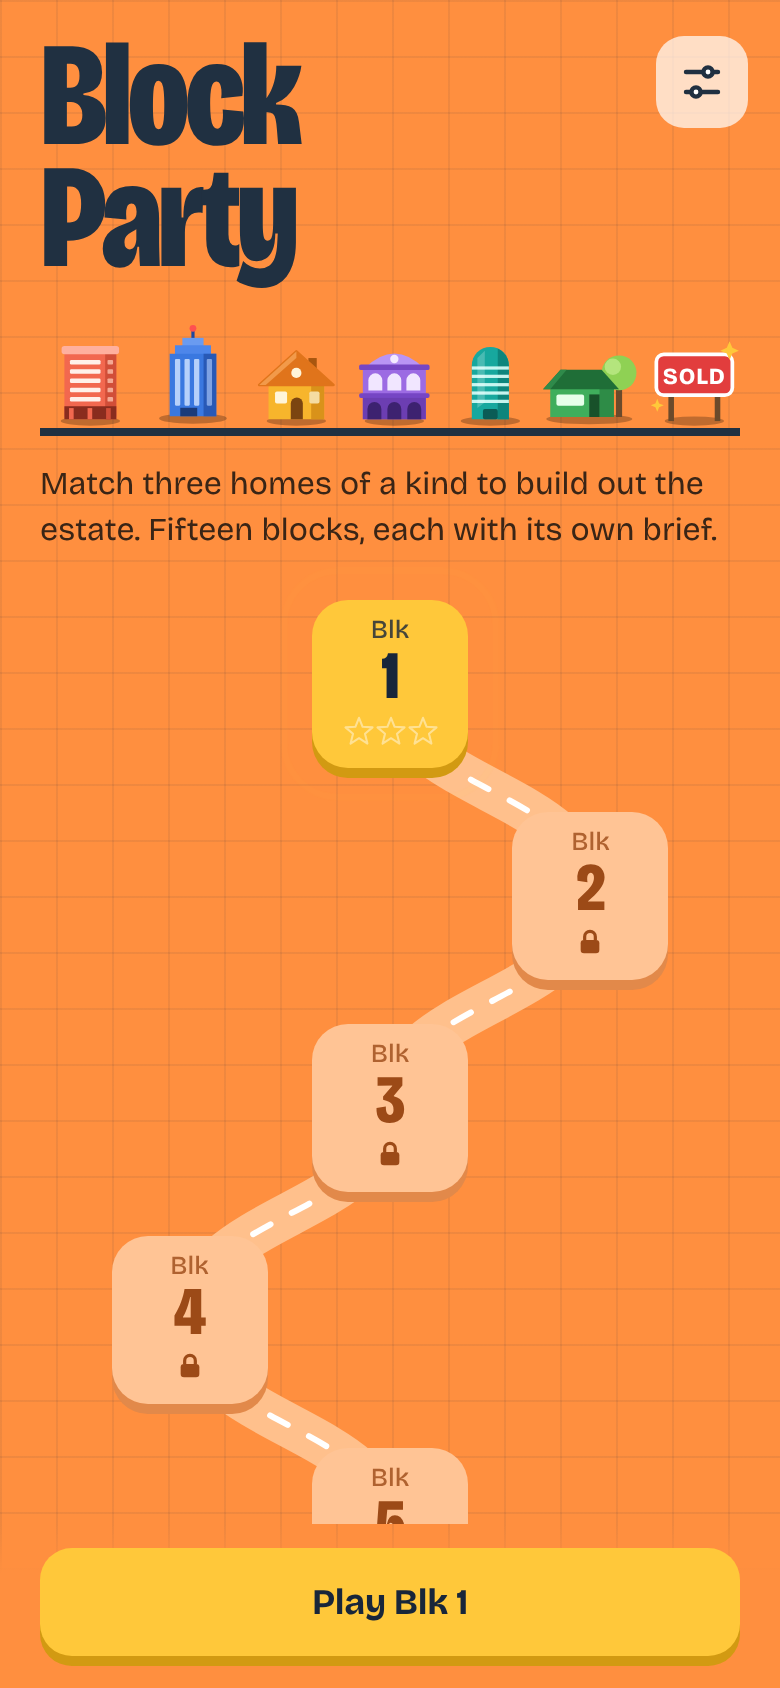
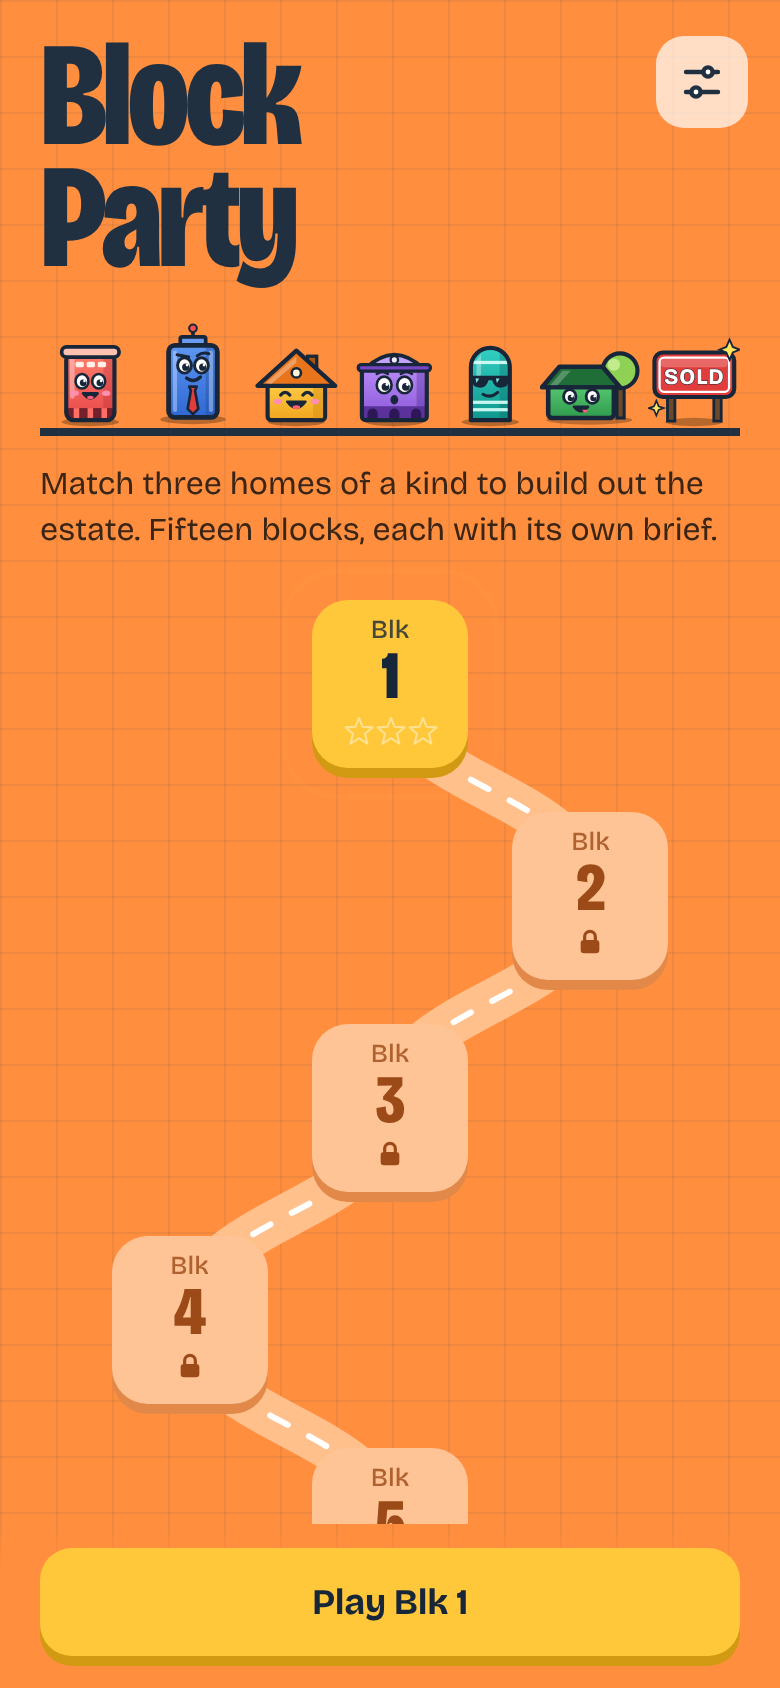
Redesign game pieces as cartoon characters
- Six home types redrawn with faces, thick sticker outlines and gloss,
  each with its own expression: cheerful HDB flat, cool condo in
  sunglasses, beaming terrace house, surprised shophouse, cheeky
  bungalow, smug office tower in a tie
- SOLD sign restyled to match
- Bulldozer stripe moved to the edge so faces stay visible
- Refresh install screenshots; bump service worker cache to v4

Claude-Session: https://claude.ai/code/session_01JDJfEoudhkGWPUHfq3bvTk

diff --git a/index.html b/index.html
@@ -299,87 +299,121 @@ button{font:inherit;color:inherit;cursor:pointer}
 /* =========================================================
    Sprites
    ========================================================= */
-const OVH = `<rect x="11" y="42" width="78" height="16" rx="3" fill="url(#hazard)" stroke="#18263A" stroke-width="2.5"/>
-  <path d="M1 50 L13 37 L13 63 Z" fill="#FFC83A" stroke="#18263A" stroke-width="2.5" stroke-linejoin="round"/>
-  <path d="M99 50 L87 37 L87 63 Z" fill="#FFC83A" stroke="#18263A" stroke-width="2.5" stroke-linejoin="round"/>`;
-const SHADOW = `<ellipse cx="50" cy="90" rx="32" ry="5" fill="#000" opacity=".25"/>`;
+const OVH = `<rect x="12" y="75" width="76" height="15" rx="3" fill="url(#hazard)" stroke="#18263A" stroke-width="2.8"/>
+  <path d="M1 82.5 L13 70 L13 95 Z" fill="#FFC83A" stroke="#18263A" stroke-width="2.8" stroke-linejoin="round"/>
+  <path d="M99 82.5 L87 70 L87 95 Z" fill="#FFC83A" stroke="#18263A" stroke-width="2.8" stroke-linejoin="round"/>`;
+const SHADOW = `<ellipse cx="50" cy="91" rx="31" ry="4.5" fill="#000" opacity=".28"/>`;
+const EYE = (x,y,r) => `<ellipse cx="${x}" cy="${y}" rx="${r}" ry="${(r*1.12).toFixed(1)}" fill="#fff" stroke="#18263A" stroke-width="2.8"/><circle cx="${x+r*.18}" cy="${y+r*.25}" r="${(r*.52).toFixed(1)}" fill="#18263A"/><circle cx="${x+r*.38}" cy="${y-r*.05}" r="${(r*.2).toFixed(1)}" fill="#fff"/>`;
+const GRAD = (id,a,b) => `<linearGradient id="${id}" x1="0" y1="0" x2="0" y2="1"><stop offset="0" stop-color="${a}"/><stop offset="1" stop-color="${b}"/></linearGradient>`;
 const STAR = `M50 6 L62 36 L95 38 L70 59 L78 92 L50 74 L22 92 L30 59 L5 38 L38 36 Z`;
 document.getElementById('sprite').innerHTML = `
 <svg xmlns="http://www.w3.org/2000/svg"><defs>
+${GRAD('g-hdb','#FF7E6C','#E8484A')}${GRAD('g-condo','#33CFC2','#0F978D')}${GRAD('g-house','#FFD04A','#F2A51E')}
+${GRAD('g-shop','#B78AF5','#8A57D8')}${GRAD('g-bung','#5ACB74','#2F9A4C')}${GRAD('g-office','#5E96F2','#2F68D2')}
+<clipPath id="cp-hdb"><rect x="24" y="16" width="52" height="73" rx="8"/></clipPath>
+<clipPath id="cp-condo"><path d="M29 89 V32 A21 21 0 0 1 71 32 V89 Z"/></clipPath>
+<clipPath id="cp-shop"><rect x="15" y="32" width="70" height="57" rx="4"/></clipPath>
+<clipPath id="cp-office"><rect x="27" y="21" width="46" height="68" rx="6"/></clipPath>
 <pattern id="hazard" width="12" height="12" patternUnits="userSpaceOnUse" patternTransform="rotate(45)"><rect width="12" height="12" fill="#FFC83A"/><rect width="6" height="12" fill="#18263A"/></pattern>
 <pattern id="barrier" width="16" height="16" patternUnits="userSpaceOnUse" patternTransform="rotate(-45)"><rect width="16" height="16" fill="#fff"/><rect width="8" height="16" fill="#FF6B1A"/></pattern>
 <pattern id="dirt" width="10" height="10" patternUnits="userSpaceOnUse" patternTransform="rotate(135)"><rect width="10" height="10" fill="#A47E55"/><rect width="5" height="10" fill="#97734C"/></pattern>
 
 <symbol id="sym-p0" viewBox="0 0 100 100">${SHADOW}
-  <rect x="22" y="14" width="56" height="74" rx="4" fill="#F2684F"/>
-  <path d="M66 14 H74 A4 4 0 0 1 78 18 V88 H66 Z" fill="#D14E38"/>
-  <rect x="19" y="9" width="62" height="9" rx="3" fill="#FFB09E"/>
-  <g fill="#FFF0EA"><rect x="28" y="24" width="33" height="5" rx="1.5"/><rect x="28" y="34" width="33" height="5" rx="1.5"/><rect x="28" y="44" width="33" height="5" rx="1.5"/><rect x="28" y="54" width="33" height="5" rx="1.5"/><rect x="28" y="64" width="33" height="5" rx="1.5"/></g>
-  <g fill="#F4A893"><rect x="68.5" y="24" width="6" height="5" rx="1"/><rect x="68.5" y="34" width="6" height="5" rx="1"/><rect x="68.5" y="44" width="6" height="5" rx="1"/><rect x="68.5" y="54" width="6" height="5" rx="1"/><rect x="68.5" y="64" width="6" height="5" rx="1"/></g>
-  <rect x="22" y="74" width="56" height="14" fill="#8A2C1E"/>
-  <g fill="#F2684F"><rect x="27" y="76" width="5" height="12"/><rect x="47" y="76" width="5" height="12"/></g><rect x="67" y="76" width="5" height="12" fill="#D14E38"/>
+  <rect x="24" y="16" width="52" height="73" rx="8" fill="url(#g-hdb)"/>
+  <g clip-path="url(#cp-hdb)">
+    <rect x="64" y="16" width="12" height="73" fill="#B92F3A" opacity=".35"/>
+    <rect x="28" y="22" width="5" height="44" rx="2.5" fill="#fff" opacity=".35"/>
+    <g fill="#FFF1E8"><rect x="34" y="26" width="9" height="6" rx="2"/><rect x="46" y="26" width="9" height="6" rx="2"/><rect x="58" y="26" width="9" height="6" rx="2"/></g>
+    <rect x="24" y="76" width="52" height="13" fill="#72202C"/>
+    <g fill="#FF6E66"><rect x="32" y="76" width="6" height="13"/><rect x="47" y="76" width="6" height="13"/><rect x="62" y="76" width="6" height="13"/></g>
+  </g>
+  <rect x="24" y="16" width="52" height="73" rx="8" fill="none" stroke="#18263A" stroke-width="4.5"/>
+  <rect x="19" y="10" width="62" height="11" rx="5.5" fill="#FFC2B0" stroke="#18263A" stroke-width="4"/>
+  ${EYE(41,47,7)}${EYE(59,47,7)}
+  <ellipse cx="33" cy="60" rx="4.5" ry="3" fill="#FF8FB0"/><ellipse cx="67" cy="60" rx="4.5" ry="3" fill="#FF8FB0"/>
+  <path d="M42 60 Q50 71 58 60 Z" fill="#18263A" stroke="#18263A" stroke-width="2.5" stroke-linejoin="round"/>
+  <ellipse cx="50" cy="64.5" rx="3.5" ry="1.8" fill="#FF5D73"/>
 </symbol>
 
 <symbol id="sym-p1" viewBox="0 0 100 100">${SHADOW}
-  <path d="M30 88 V30 A20 20 0 0 1 70 30 V88 Z" fill="#17A89E"/>
-  <path d="M58 88 V11.7 A20 20 0 0 1 70 30 V88 Z" fill="#0D857C"/>
-  <g fill="#DBFFFA" opacity=".9"><rect x="30" y="31" width="40" height="3.5"/><rect x="30" y="40" width="40" height="3.5"/><rect x="30" y="49" width="40" height="3.5"/><rect x="30" y="58" width="40" height="3.5"/><rect x="30" y="67" width="40" height="3.5"/></g>
-  <path d="M36 22 L44 14 L44 70 L36 76 Z" fill="#fff" opacity=".22"/>
-  <rect x="42" y="77" width="16" height="11" rx="2" fill="#0A5C56"/>
+  <path d="M29 89 V32 A21 21 0 0 1 71 32 V89 Z" fill="url(#g-condo)"/>
+  <g clip-path="url(#cp-condo)">
+    <rect x="60" y="8" width="11" height="81" fill="#0A6A63" opacity=".35"/>
+    <path d="M35 24 L40 18 L40 40 L35 44 Z" fill="#fff" opacity=".35"/>
+    <g fill="#DBFFFA" opacity=".9"><rect x="29" y="68" width="42" height="3.5"/><rect x="29" y="76" width="42" height="3.5"/></g>
+    <rect x="29" y="25" width="42" height="3.5" fill="#DBFFFA" opacity=".9"/>
+  </g>
+  <path d="M29 89 V32 A21 21 0 0 1 71 32 V89 Z" fill="none" stroke="#18263A" stroke-width="4.5" stroke-linejoin="round"/>
+  <path d="M30 41 H70 V45 Q70 54 61 54 Q54 54 52 46 H48 Q46 54 39 54 Q30 54 30 45 Z" fill="#18263A"/>
+  <path d="M34 44 L38 44 L35 49 Z M56 44 L60 44 L57 49 Z" fill="#7EE8DE"/>
+  <path d="M42 61 Q50 66 58 59" fill="none" stroke="#18263A" stroke-width="3.2" stroke-linecap="round"/>
 </symbol>
 
 <symbol id="sym-p2" viewBox="0 0 100 100">${SHADOW}
-  <rect x="63" y="22" width="9" height="18" fill="#A8560F"/>
-  <rect x="20" y="46" width="60" height="42" fill="#F7B52C"/>
-  <rect x="66" y="46" width="14" height="42" fill="#D9921A"/>
-  <path d="M10 51 L50 15 L90 51 Z" fill="#E0741B" stroke="#E0741B" stroke-width="3" stroke-linejoin="round"/>
-  <path d="M10 51 L50 15 L50 22 L17 51 Z" fill="#F29A4A"/>
-  <circle cx="50" cy="38" r="5.5" fill="#FFF5D9"/>
-  <rect x="27" y="58" width="13" height="13" rx="2" fill="#FFF5D9"/>
-  <rect x="64" y="58" width="11" height="13" rx="2" fill="#F5DCA2"/>
-  <path d="M44 88 V71 A6.5 6.5 0 0 1 57 71 V88 Z" fill="#7B4510"/>
+  <rect x="62" y="20" width="10" height="20" fill="#A8560F" stroke="#18263A" stroke-width="3.5"/>
+  <rect x="19" y="45" width="62" height="44" rx="4" fill="url(#g-house)" stroke="#18263A" stroke-width="4.5"/>
+  <rect x="68" y="47" width="11" height="40" fill="#D9921A" opacity=".55"/>
+  <path d="M8 52 L50 14 L92 52 Z" fill="#E8741B" stroke="#18263A" stroke-width="4.5" stroke-linejoin="round"/>
+  <path d="M17 49 L50 20 L50 27 L23 50 Z" fill="#fff" opacity=".3"/>
+  <circle cx="50" cy="38" r="5" fill="#FFF5D9" stroke="#18263A" stroke-width="2.8"/>
+  <path d="M33 62 Q38 56 43 62 M57 62 Q62 56 67 62" fill="none" stroke="#18263A" stroke-width="3.4" stroke-linecap="round"/>
+  <ellipse cx="30" cy="69" rx="4.5" ry="3" fill="#FF8FB0"/><ellipse cx="70" cy="69" rx="4.5" ry="3" fill="#FF8FB0"/>
+  <path d="M40 69 Q50 83 60 69 Z" fill="#18263A" stroke="#18263A" stroke-width="2.5" stroke-linejoin="round"/>
+  <ellipse cx="50" cy="75" rx="4" ry="2" fill="#FF5D73"/>
 </symbol>
 
 <symbol id="sym-p3" viewBox="0 0 100 100">${SHADOW}
-  <path d="M18 33 Q50 1 82 33 Z" fill="#B994F4"/>
-  <circle cx="50" cy="23" r="4.5" fill="#F3EAFF"/>
-  <rect x="16" y="32" width="68" height="56" fill="#9C6BE3"/>
-  <rect x="12" y="29" width="76" height="6" rx="2" fill="#7646C4"/>
-  <g fill="#F1E6FF"><path d="M22 57 V46 A7.5 7.5 0 0 1 37 46 V57 Z"/><path d="M42.5 57 V46 A7.5 7.5 0 0 1 57.5 46 V57 Z"/><path d="M63 57 V46 A7.5 7.5 0 0 1 78 46 V57 Z"/></g>
-  <rect x="12" y="60" width="76" height="5" rx="2" fill="#7646C4"/>
-  <rect x="16" y="65" width="68" height="23" fill="#6C3EB2"/>
-  <g fill="#3D2270"><path d="M21 88 V77 A7.5 7.5 0 0 1 36 77 V88 Z"/><path d="M42.5 88 V77 A7.5 7.5 0 0 1 57.5 77 V88 Z"/><path d="M64 88 V77 A7.5 7.5 0 0 1 79 77 V88 Z"/></g>
+  <path d="M18 34 Q50 3 82 34 Z" fill="#C3A2FA" stroke="#18263A" stroke-width="4" stroke-linejoin="round"/>
+  <circle cx="50" cy="24" r="4" fill="#F3EAFF" stroke="#18263A" stroke-width="2.5"/>
+  <rect x="15" y="32" width="70" height="57" rx="4" fill="url(#g-shop)"/>
+  <g clip-path="url(#cp-shop)">
+    <rect x="74" y="32" width="11" height="57" fill="#4E2690" opacity=".35"/>
+    <rect x="15" y="74" width="70" height="15" fill="#5B329A"/>
+    <g fill="#2E1658"><path d="M21 89 V82 A5.5 5.5 0 0 1 32 82 V89 Z"/><path d="M44.5 89 V82 A5.5 5.5 0 0 1 55.5 82 V89 Z"/><path d="M68 89 V82 A5.5 5.5 0 0 1 79 82 V89 Z"/></g>
+  </g>
+  <rect x="15" y="32" width="70" height="57" rx="4" fill="none" stroke="#18263A" stroke-width="4.5"/>
+  <rect x="11" y="29" width="78" height="7" rx="3.5" fill="#7646C4" stroke="#18263A" stroke-width="3.5"/>
+  ${EYE(39,51,8)}${EYE(61,51,8)}
+  <path d="M31 39 Q37 35 43 39 M57 39 Q63 35 69 39" fill="none" stroke="#18263A" stroke-width="2.8" stroke-linecap="round"/>
+  <ellipse cx="50" cy="67" rx="4.2" ry="5" fill="#18263A"/>
 </symbol>
 
-<symbol id="sym-p4" viewBox="0 0 100 100"><ellipse cx="48" cy="90" rx="42" ry="5" fill="#000" opacity=".25"/>
-  <rect x="74" y="56" width="6" height="32" fill="#6B4A2B"/>
-  <circle cx="77" cy="45" r="17" fill="#8FD154"/><circle cx="71" cy="39" r="8" fill="#B4E57D"/>
-  <rect x="10" y="58" width="62" height="30" fill="#3FAE5C"/>
-  <rect x="58" y="58" width="14" height="30" fill="#2E8C47"/>
-  <path d="M3 61 L20 42 H60 L77 61 Z" fill="#1F6E37"/>
-  <path d="M3 61 L20 42 H26 L10 61 Z" fill="#2F8A4A"/>
-  <rect x="16" y="66" width="27" height="11" rx="2" fill="#E6FFEA"/>
-  <rect x="48" y="66" width="10" height="22" fill="#18512A"/>
+<symbol id="sym-p4" viewBox="0 0 100 100"><ellipse cx="48" cy="91" rx="42" ry="4.5" fill="#000" opacity=".25"/>
+  <rect x="75" y="56" width="7" height="33" fill="#6B4A2B" stroke="#18263A" stroke-width="3"/>
+  <circle cx="78" cy="43" r="17" fill="#8FD154" stroke="#18263A" stroke-width="4"/>
+  <circle cx="72" cy="37" r="6" fill="#C2EC8C"/>
+  <rect x="8" y="55" width="64" height="34" rx="4" fill="url(#g-bung)" stroke="#18263A" stroke-width="4.5"/>
+  <path d="M2 59 L19 39 H61 L78 59 Z" fill="#1F6E37" stroke="#18263A" stroke-width="4.5" stroke-linejoin="round"/>
+  <path d="M10 57 L22 43 H30 L17 57 Z" fill="#fff" opacity=".25"/>
+  ${EYE(29,68,6)}${EYE(51,68,6)}
+  <path d="M33 78 Q40 87 47 78 Z" fill="#18263A" stroke="#18263A" stroke-width="2.4" stroke-linejoin="round"/>
+  <path d="M41 81 Q44 87 47 81 Z" fill="#FF5D73"/>
 </symbol>
 
 <symbol id="sym-p5" viewBox="0 0 100 100">${SHADOW}
-  <line x1="50" y1="5" x2="50" y2="16" stroke="#21479E" stroke-width="3"/>
-  <circle cx="50" cy="5" r="3.2" fill="#FF5050"/>
-  <rect x="40" y="14" width="20" height="9" fill="#6A9BF0"/>
-  <rect x="33" y="21" width="34" height="9" fill="#4D86EA"/>
-  <rect x="28" y="29" width="44" height="59" fill="#3A78E0"/>
-  <rect x="60" y="29" width="12" height="59" fill="#2859B6"/>
-  <g fill="#CCE0FF" opacity=".85"><rect x="33" y="34" width="5" height="44" rx="1"/><rect x="42" y="34" width="5" height="44" rx="1"/><rect x="51" y="34" width="5" height="44" rx="1"/></g>
-  <rect x="63" y="34" width="5" height="44" rx="1" fill="#7EA2E3"/>
-  <rect x="38" y="80" width="16" height="8" fill="#1B3B7A"/>
+  <line x1="50" y1="5" x2="50" y2="16" stroke="#18263A" stroke-width="3.5"/>
+  <circle cx="50" cy="5" r="3.6" fill="#FF5050" stroke="#18263A" stroke-width="2"/>
+  <rect x="38" y="13" width="24" height="10" rx="2" fill="#6A9BF0" stroke="#18263A" stroke-width="3.5"/>
+  <rect x="27" y="21" width="46" height="68" rx="6" fill="url(#g-office)"/>
+  <g clip-path="url(#cp-office)">
+    <rect x="62" y="21" width="11" height="68" fill="#1D4590" opacity=".35"/>
+    <g fill="#CCE0FF" opacity=".45"><rect x="31" y="26" width="4" height="58" rx="2"/><rect x="65" y="26" width="4" height="58" rx="2"/></g>
+  </g>
+  <rect x="27" y="21" width="46" height="68" rx="6" fill="none" stroke="#18263A" stroke-width="4.5"/>
+  ${EYE(42,40,6.5)}${EYE(58,40,6.5)}
+  <path d="M35 30 L46 32 M54 31 Q59 27 65 29" fill="none" stroke="#18263A" stroke-width="2.8" stroke-linecap="round"/>
+  <path d="M44 52 Q51 57 57 51" fill="none" stroke="#18263A" stroke-width="3.2" stroke-linecap="round"/>
+  <path d="M46.5 60 H53.5 L52 64 L55 81 L50 86 L45 81 L48 64 Z" fill="#E23D3D" stroke="#18263A" stroke-width="2.5" stroke-linejoin="round"/>
 </symbol>
 
 <symbol id="sym-sold" viewBox="0 0 100 100">${SHADOW}
-  <rect x="22" y="48" width="6" height="42" fill="#6B4A2B"/><rect x="72" y="48" width="6" height="42" fill="#6B4A2B"/>
-  <rect x="9" y="18" width="82" height="44" rx="8" fill="#E23D3D" stroke="#fff" stroke-width="4"/>
-  <text x="50" y="49.5" text-anchor="middle" font-family="'Bricolage Grotesque',system-ui,sans-serif" font-weight="800" font-size="25" fill="#fff" letter-spacing="1">SOLD</text>
-  <path d="M88 4 L91 11 L98 14 L91 17 L88 24 L85 17 L78 14 L85 11 Z" fill="#FFC83A"/>
-  <path d="M10 66 L12 71 L17 73 L12 75 L10 80 L8 75 L3 73 L8 71 Z" fill="#FFC83A"/>
+  <rect x="21" y="48" width="8" height="42" fill="#6B4A2B" stroke="#18263A" stroke-width="3"/><rect x="71" y="48" width="8" height="42" fill="#6B4A2B" stroke="#18263A" stroke-width="3"/>
+  <rect x="7" y="16" width="86" height="48" rx="9" fill="#E23D3D" stroke="#18263A" stroke-width="4.5"/>
+  <rect x="12.5" y="21.5" width="75" height="37" rx="5" fill="none" stroke="#fff" stroke-width="2.5"/>
+  <rect x="14" y="23" width="72" height="9" rx="4" fill="#fff" opacity=".22"/>
+  <text x="50" y="49.5" text-anchor="middle" font-family="'Bricolage Grotesque',system-ui,sans-serif" font-weight="800" font-size="24" fill="#fff" stroke="#18263A" stroke-width="1.2" paint-order="stroke" letter-spacing="1">SOLD</text>
+  <path d="M88 2 L91.5 10 L99 13 L91.5 16 L88 24 L84.5 16 L77 13 L84.5 10 Z" fill="#FFE45C" stroke="#18263A" stroke-width="2"/>
+  <path d="M9 68 L11.5 74 L17 76 L11.5 78 L9 84 L6.5 78 L1 76 L6.5 74 Z" fill="#FFE45C" stroke="#18263A" stroke-width="1.8"/>
 </symbol>
 
 <symbol id="ov-h" viewBox="0 0 100 100">${OVH}</symbol>

diff --git a/sw.js b/sw.js
@@ -1,6 +1,6 @@
 // Block Party service worker: makes the game load instantly and play offline.
 // Bump VERSION when you want installed copies to drop their old cache.
-const VERSION = 'v3';
+const VERSION = 'v4';
 const CACHE = `blockparty-${VERSION}`;
 const PRECACHE = [
   '/',
